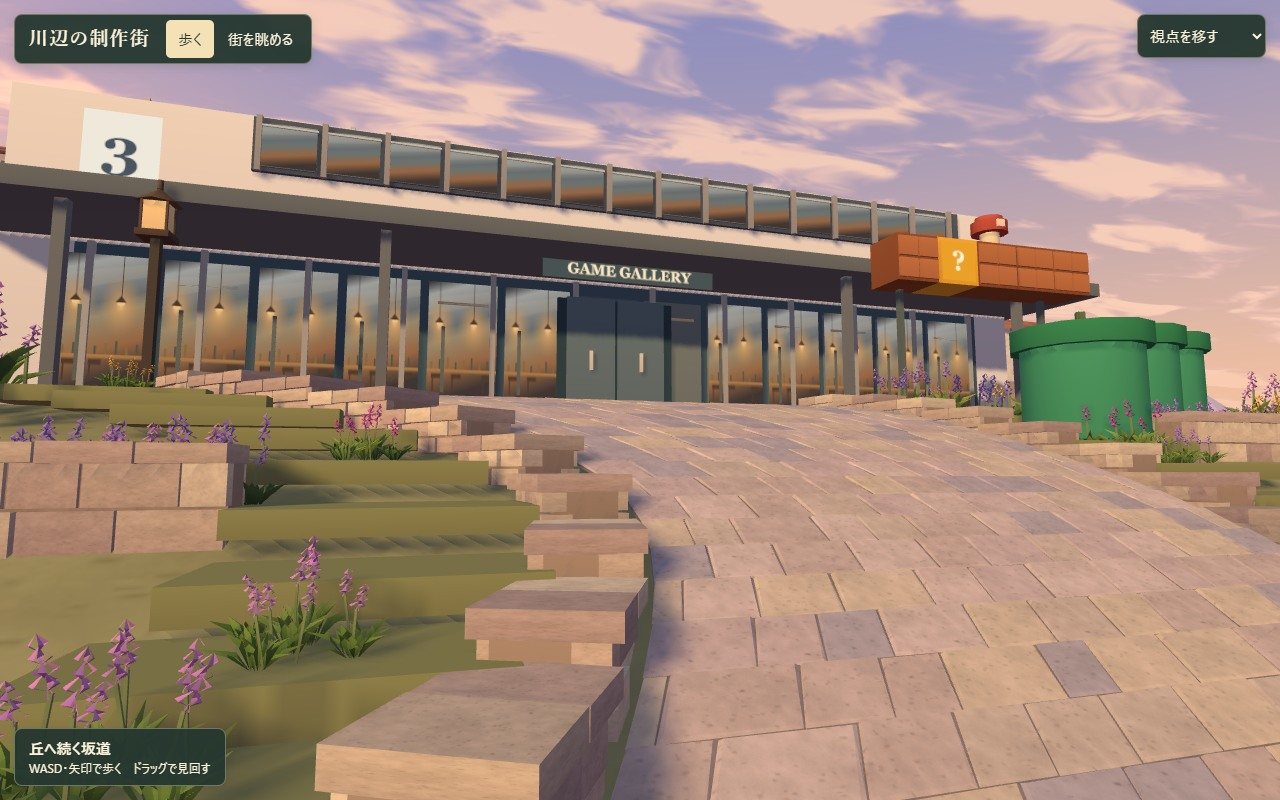
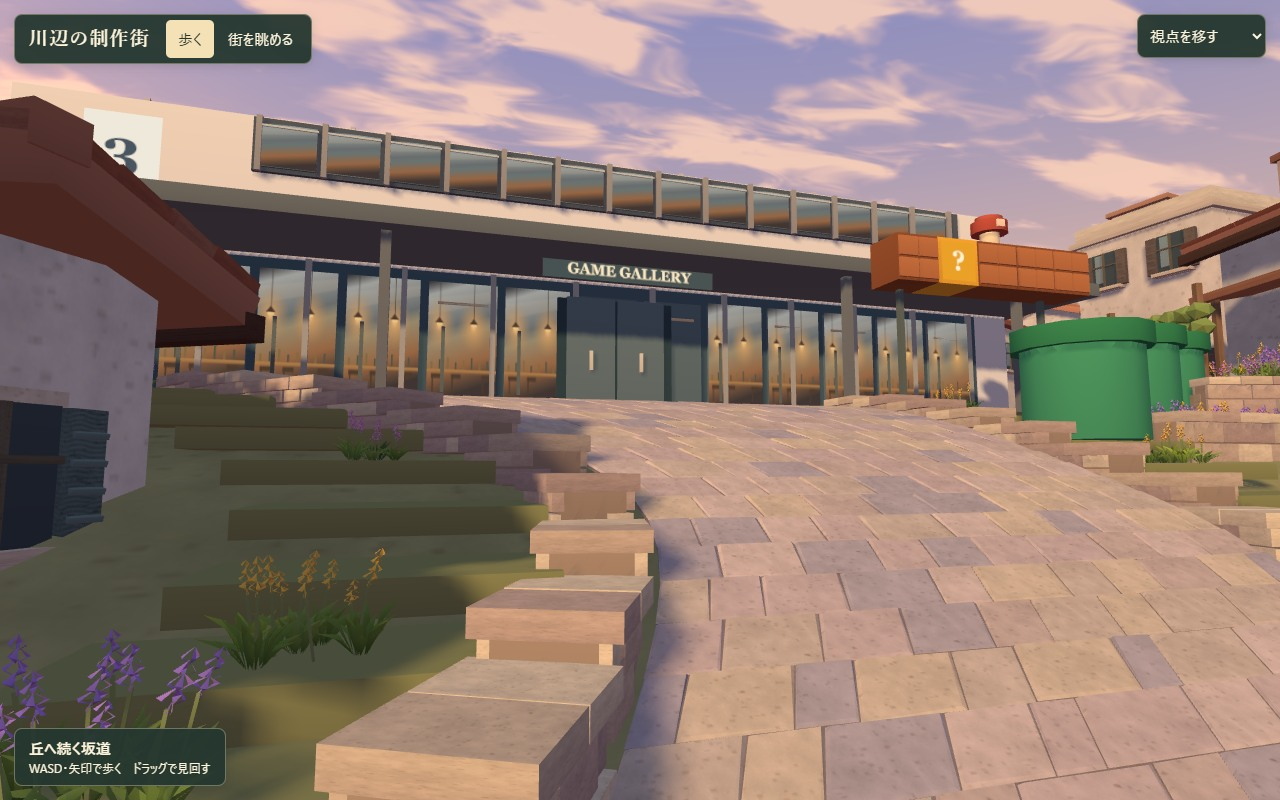
docs(prototype): compare both cameras and record neighborhood walks

diff --git a/prototype/review/compare.html b/prototype/review/compare.html
@@ -1,45 +1,59 @@
 <!doctype html>
 <html lang="ja">
-<meta charset="utf-8">
-<meta name="viewport" content="width=device-width,initial-scale=1">
-<title>石橋からの眺め ｜ 川辺の制作街</title>
+<meta charset="utf-8"><meta name="viewport" content="width=device-width,initial-scale=1">
+<title>街区の変更前後 ｜ 川辺の制作街</title>
 <style>
   * { box-sizing: border-box }
-  body { max-width: 1440px; margin: 0 auto; padding: 20px; color: #292d28; background: #f8f4ec; font: 1rem/1.5 system-ui,sans-serif }
+  body { max-width: 1500px; margin: auto; padding: 20px; background: #f8f4ec; color: #292d28; font: 1rem/1.5 system-ui,sans-serif }
   header, .options { display: flex; align-items: center; flex-wrap: wrap; gap: 1rem }
-  header { justify-content: space-between; margin-bottom: 1rem }
-  h1 { margin: 0; font: 600 1.4rem/1.4 serif }
+  header { justify-content: space-between; margin-bottom: .8rem }
+  h1, h2 { font-family: Georgia,serif; line-height: 1.3 }
+  h1 { margin: 0; font-size: 1.55rem }
+  h2 { margin: 1.3rem 0 .35rem; font-size: 1.18rem }
   a, input { accent-color: #325642; color: #325642 }
-  .pair { display: grid; grid-template-columns: 1fr 1fr; gap: 1rem }
-  figure { margin: 0 }
-  figcaption { padding: .6rem 0; font-weight: 600 }
-  img { display: block; width: 100%; height: auto; border-radius: 4px }
-  .mobile { max-width: 790px }
-  .overview-shot { grid-column: 1 / -1 }
-  .mobile .overview-shot { max-width: 375px }
+  .pair { display: grid; grid-template-columns: repeat(2,minmax(0,1fr)); gap: 12px }
+  figure { margin: 0 } figcaption { margin-bottom: .35rem; font-size: .86rem }
+  img { width: 100%; height: auto; display: block; border-radius: 5px }
+  .mobile { max-width: 770px }
+  details { margin-top: 1.2rem } summary { cursor: pointer; margin-bottom: .6rem }
+  details img { max-width: 780px }
   [hidden] { display: none }
-  @media(max-width:640px){ body { padding: 12px } .desktop { grid-template-columns: 1fr } .pair { gap: .5rem } }
+  @media(max-width:620px){body{padding:12px}.desktop .pair{grid-template-columns:1fr}.pair{gap:8px}}
 </style>
-<header><h1>石橋と街区の俯瞰</h1><a href="walk.html">街を開く →</a></header>
+<header><h1>街区の変更前後</h1><a href="walk.html">街を開く →</a></header>
 <div class="options" role="group" aria-label="撮影サイズ">
   <label><input type="radio" name="size" value="desktop" checked> PC · 1280 × 800</label>
   <label><input type="radio" name="size" value="mobile"> スマホ · 375 × 812</label>
 </div>
-<section class="pair desktop" aria-label="PCの比較">
-  <figure><figcaption>石橋 · 変更前</figcaption><img src="before-bridge-1280.jpg" alt="前回レビューした石橋からの眺め"></figure>
-  <figure><figcaption>石橋 · 変更後</figcaption><img src="bridge-1280.jpg" alt="川岸の枝越しに見えるPISOLA、石畳とSISTERの店先"></figure>
-  <figure class="overview-shot"><figcaption>街を眺める · 初期視点</figcaption><img src="overview-1280.jpg" alt="川の手前から石橋、両店、丘の展示館までを見渡した俯瞰"></figure>
+<section class="desktop" data-size="desktop" aria-label="PCの比較">
+  <h2>街区の俯瞰</h2>
+  <div class="pair">
+    <figure><figcaption>変更前</figcaption><a href="before-overview-1280.jpg"><img src="before-overview-1280.jpg" alt="PC・変更前の街区の俯瞰"></a></figure>
+    <figure><figcaption>変更後</figcaption><a href="overview-1280.jpg"><img src="overview-1280.jpg" alt="PC・変更後の街区の俯瞰"></a></figure>
+  </div>
+  <h2>石橋からの歩行視点</h2>
+  <div class="pair">
+    <figure><figcaption>変更前</figcaption><a href="before-bridge-1280.jpg"><img src="before-bridge-1280.jpg" alt="PC・変更前の石橋からの歩行視点"></a></figure>
+    <figure><figcaption>変更後</figcaption><a href="bridge-1280.jpg"><img src="bridge-1280.jpg" alt="PC・変更後の石橋からの歩行視点"></a></figure>
+  </div>
+  <details><summary>川沿いの住宅路地から見る</summary><img src="quay-1280.jpg" alt="玄関の石段と小庭の間を通る路地"></details>
 </section>
-<section class="pair mobile" aria-label="スマートフォン幅の比較" hidden>
-  <figure><figcaption>変更前</figcaption><img src="before-bridge-375.jpg" alt="375px幅で撮影した変更前の石橋"></figure>
-  <figure><figcaption>変更後</figcaption><img src="bridge-375.jpg" alt="同じ縦画角で花壇の間を抜ける坂を見た変更後の石橋"></figure>
-  <figure class="overview-shot"><figcaption>街を眺める · 初期視点</figcaption><img src="overview-375.jpg" alt="375px幅で川、橋、3店舗を収めた俯瞰"></figure>
+<section class="mobile" data-size="mobile" aria-label="スマホ幅の比較" hidden>
+  <h2>街区の俯瞰</h2>
+  <div class="pair">
+    <figure><figcaption>変更前</figcaption><a href="before-overview-375.jpg"><img src="before-overview-375.jpg" alt="スマホ幅・変更前の街区の俯瞰"></a></figure>
+    <figure><figcaption>変更後</figcaption><a href="overview-375.jpg"><img src="overview-375.jpg" alt="スマホ幅・変更後の街区の俯瞰"></a></figure>
+  </div>
+  <h2>石橋からの歩行視点</h2>
+  <div class="pair">
+    <figure><figcaption>変更前</figcaption><a href="before-bridge-375.jpg"><img src="before-bridge-375.jpg" alt="スマホ幅・変更前の石橋からの歩行視点"></a></figure>
+    <figure><figcaption>変更後</figcaption><a href="bridge-375.jpg"><img src="bridge-375.jpg" alt="スマホ幅・変更後の石橋からの歩行視点"></a></figure>
+  </div>
+  <details><summary>川沿いの住宅路地から見る</summary><img src="quay-375.jpg" alt="玄関の石段と小庭の間を通る路地"></details>
 </section>
 <script>
   document.querySelector('.options').addEventListener('change', event => {
-    for (const section of document.querySelectorAll('.pair')) {
-      section.hidden = !section.classList.contains(event.target.value);
-    }
+    for (const section of document.querySelectorAll('[data-size]')) section.hidden = section.dataset.size !== event.target.value;
   });
 </script>
 </html>

diff --git a/prototype/README.md b/prototype/README.md
@@ -1,6 +1,6 @@
 # 川辺の制作街・街区レビュー
 
-[街を開く](review/walk.html) ／ [石橋の変更前後と俯瞰を比較する](review/compare.html)
+[街を開く](review/walk.html) ／ [俯瞰と石橋からの変更前後を見る](review/compare.html)
 
 初回は石橋で「歩く」から始まる。左手のPISOLA、右手のSISTER、その奥の坂の上にゲーム展示館がある。「街を眺める」を選ぶと、同じ街区を川の上から見渡せる。歩行中の地点・向き・画角は、俯瞰から「歩く」に戻ると復帰する。
 
@@ -13,22 +13,30 @@
 
 ## 景観と撮影条件
 
-前回レビュー版（`ad75f58`）を比較元にした。石橋の座標は `(-0.65, 2.25334, 22)`、向きは yaw `0.015`、pitch `0.012` ラジアン。変更前後ともPCは1280×800・縦画角60°、スマホ幅は375×812・縦画角78°、DPRは1で撮影した。
+石橋を渡るとSISTERとPISOLAの店先で石畳が広がる。橋を渡って左へ折れると幅1.85mの川沿いの小路があり、民家の玄関と小庭の間を抜けて坂道へ合流する。SISTERの裏手からも住宅の横丁を経て丘へ上がれる。各戸の玄関に向かう小径の幅は1.10m。民家57棟は路地に玄関を向け、間口・階高に合わせて切妻、寄棟、片流れ、屋上テラスやパーゴラを組み合わせた。
 
-川面の反射、岸の岩と木陰、店先の花穂、石積みの目地、木の横張りと軒裏が距離に応じて読めるようにした。PISOLAの三角看板・青緑の柱、SISTERの鎧戸・2枚の緑のひさし、丘の展示館の水平窓と前庭はそれぞれの元画像を参照した。
+比較元は前回レビュー版の 9bdc429。石橋の歩行カメラは座標 (-0.65, 2.25334, 22)、yaw 0.015、pitch 0.012 ラジアン。俯瞰の注視点は (0, 1, -4)、方位角 −0.45、仰角 0.47 ラジアン。各モードで、変更前後のカメラのワールド行列・投影行列・DPRが一致した。
+
+| 撮影サイズ | 歩行の縦画角 | 俯瞰の縦画角 | DPR |
+| --- | --- | --- | --- |
+| 1280×800 | 60° | 48° | 1 |
+| 375×812 | 78° | 67° | 1 |
 
 | 実描画 | PC | スマホ幅 |
 | --- | --- | --- |
 | 石橋 | [変更前](review/before-bridge-1280.jpg)・[変更後](review/bridge-1280.jpg) | [変更前](review/before-bridge-375.jpg)・[変更後](review/bridge-375.jpg) |
-| 街区の俯瞰 | [1280px](review/overview-1280.jpg) | [375px](review/overview-375.jpg) |
+| 街区の俯瞰 | [変更前](review/before-overview-1280.jpg)・[変更後](review/overview-1280.jpg) | [変更前](review/before-overview-375.jpg)・[変更後](review/overview-375.jpg) |
+| 川沿いの住宅路地 | [1280px](review/quay-1280.jpg) | [375px](review/quay-375.jpg) |
 | PISOLAの店先 | [1280px](review/pisola-1280.jpg) | [375px](review/pisola-375.jpg) |
 | SISTERの店先 | [1280px](review/sister-1280.jpg) | [375px](review/sister-375.jpg) |
 | 丘の前庭 | [1280px](review/hill-1280.jpg) | [375px](review/hill-375.jpg) |
 
 ## 動作確認
 
-Windows版Chrome・Intel Iris Xe（D3D11）で単独HTMLを開いた。PCではマウスとキーボード、375px幅では模擬タッチを使って回転・移動・ズームを行い、歩行復帰前後の座標・回転・画角の一致を確認した。俯瞰の移動キーを押したまま歩行へ戻しても足元は動かなかった。別に、石橋からSISTER、PISOLA、ゲーム展示館へ視点切り替えを使わず連続歩行し、両サイズで3つの入口名を確認した。
+Windows版Chrome（Intel Iris Xe・D3D11）で単独HTMLを開いた。1280×800ではキーボード、375×812では方向ボタンの模擬タッチで石橋 → SISTER → PISOLA → ゲーム展示館を連続して歩き、3か所で入口名を確認した。
 
-描画負荷は同じPCで、歩行中と俯瞰回転中に各90フレームのアニメーションフレーム間隔を測定した。両サイズ・両モードとも中央値16.7ms、95パーセンタイル16.8ms。初期俯瞰の描画はPCで169ドロー・655,812三角形、375px幅で149ドロー・632,778三角形。静止時はカメラや画面サイズが変わるまで再描画しない。スマートフォン実機の速度とSafariは未計測。
+両サイズで、石橋から川沿いの路地を曲がり、民家の玄関の石段まで歩いた。これとは別に、歩行と同じ通行判定で16cm間隔の格子を石橋から探索し、57戸すべての玄関前へつながることを確認した。俯瞰の回転・移動・ズーム後には歩行位置、向き、画角が復帰した。
+
+歩行中と俯瞰回転中に各90フレームを測定し、両サイズ・両モードでフレーム間隔の中央値は16.7msだった。スマホ幅の確認はPC上のタッチエミュレーション。スマートフォン実機とSafariの描画速度は未計測。
 
 `index.html` が通常の入口。`python prototype/review/build_walk.py` で同じソースから単独HTMLを再生成できる。Three.js r160（0.160.1、MIT）を同梱しており、ローカルでWebGLが使えるブラウザーから開ける。
